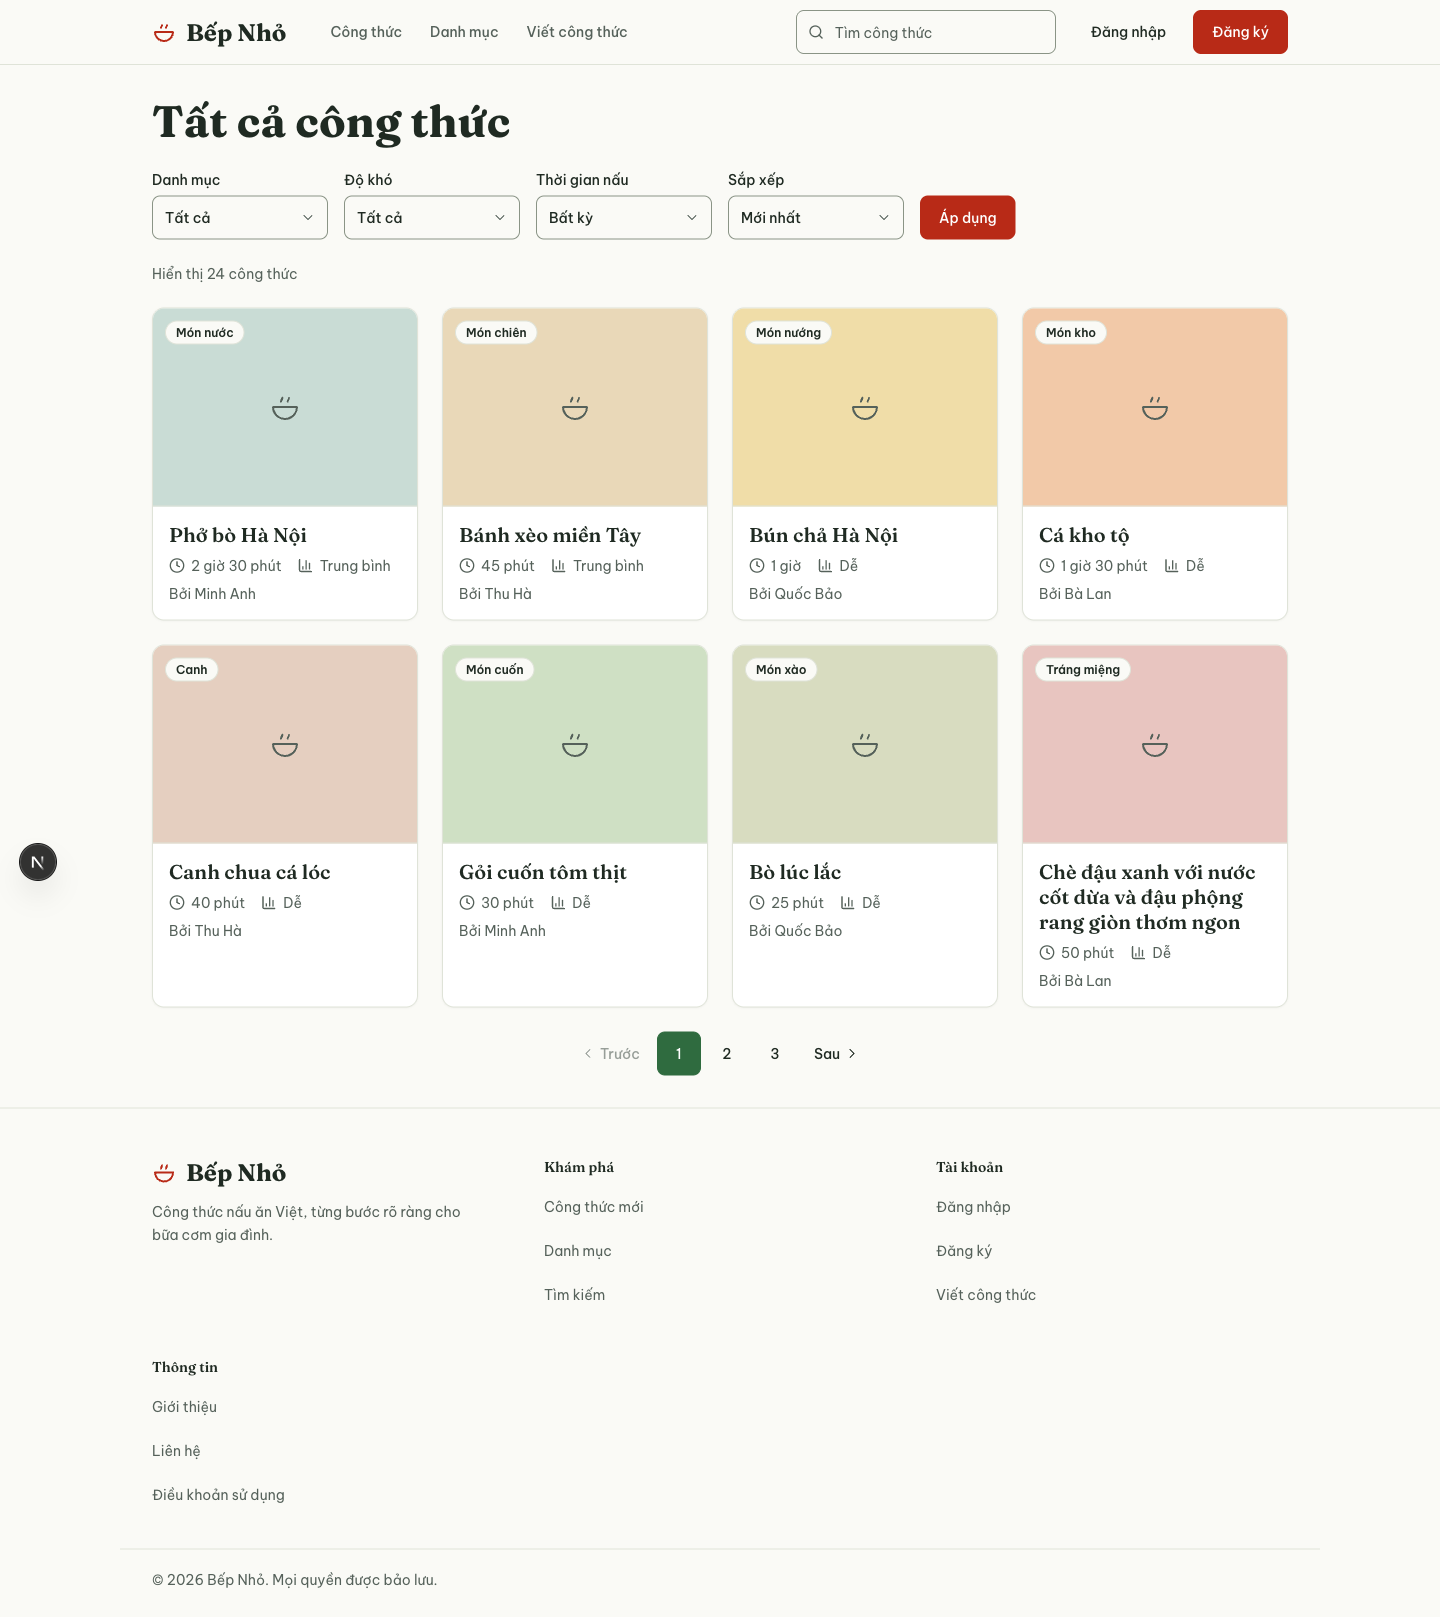
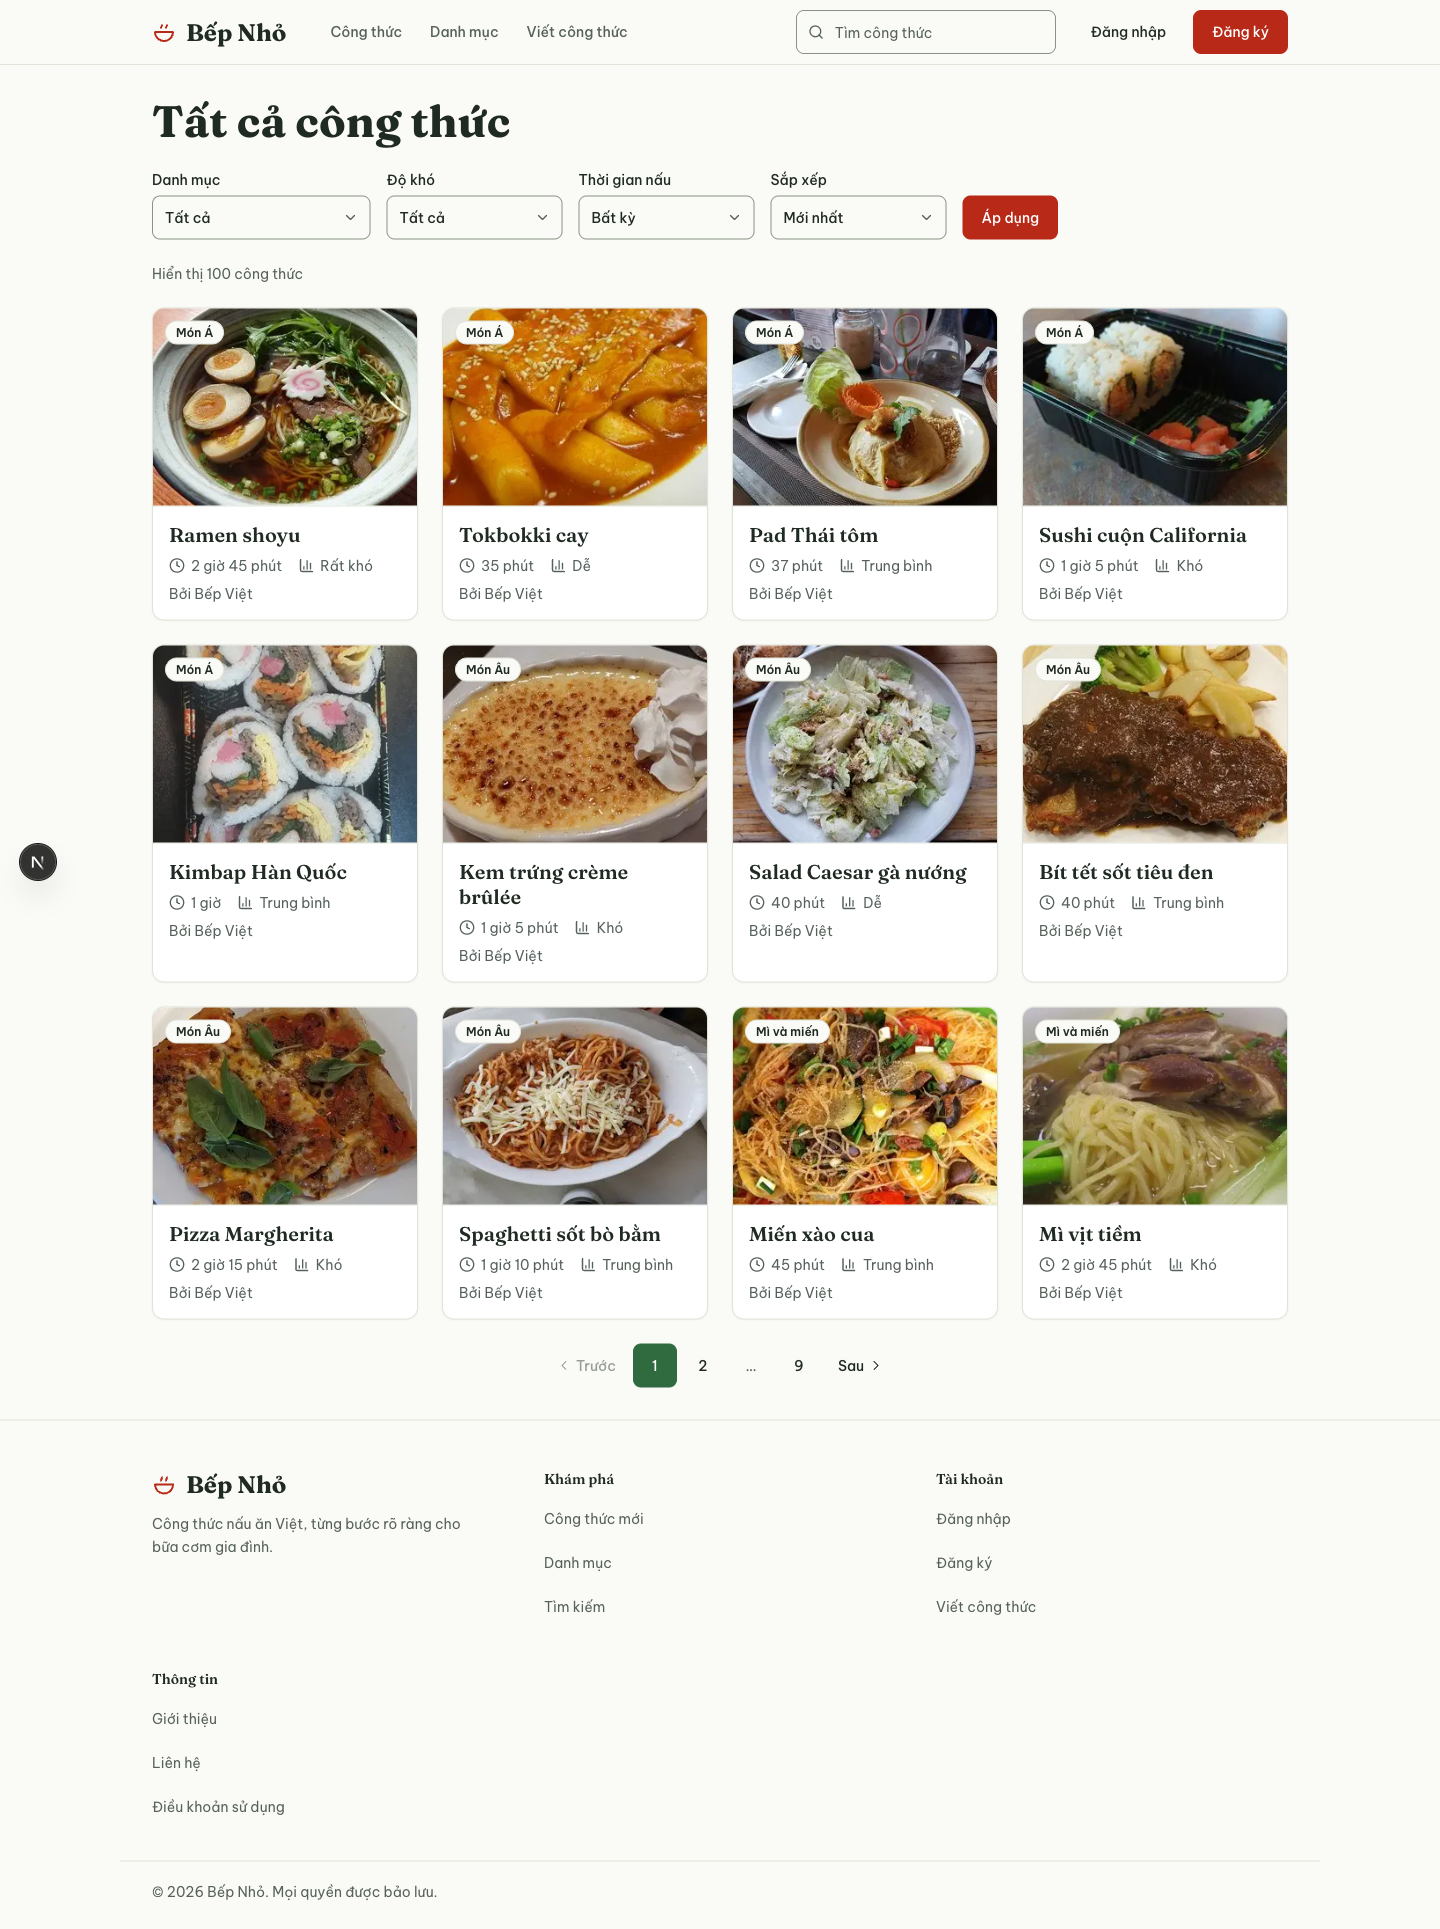
docs: dev test account note, refresh screenshots with seeded photos, drop duplicate editor screenshots

diff --git a/CLAUDE.md b/CLAUDE.md
@@ -67,6 +67,10 @@ Next.js 15 App Router, TypeScript strict, Tailwind v4, shadcn/ui (add components
 - Test files mirror source in `tests/`; see `tests/test_health.py`.
 - Cache concurrency tests need a real Redis: `export TEST_REDIS_URL=$(scripts/test-redis.sh start)` (and `scripts/test-redis.sh stop` after). They skip when it's unset; CI runs the same script. The DB is flushed.
 
+## Dev test account & seeded data
+
+Local dev only (`scripts/seed/seed.py` creates it; Admin + Author): `seed.author@example.com` / `SeedAuthor#2026`. Use it for curl/API/Playwright checks, e.g. `curl -c jar -H 'content-type: application/json' -d '{"email":"seed.author@example.com","password":"SeedAuthor#2026"}' localhost:8000/api/v1/auth/login`. It owns all seeded data (20 categories, 100 published recipes with real photos). **Never edit or delete seeded data**: create your own throwaway category/recipe, test against that, and clean it up (soft delete via the API) when done. Don't leave test users/recipes behind (e2e-style leftovers pollute home/listing screenshots).
+
 ## Process
 
 - ADR for every significant architectural decision (`docs/adr/NNNN-title.md`); keep CHANGELOG.md per release (Keep a Changelog + SemVer).
